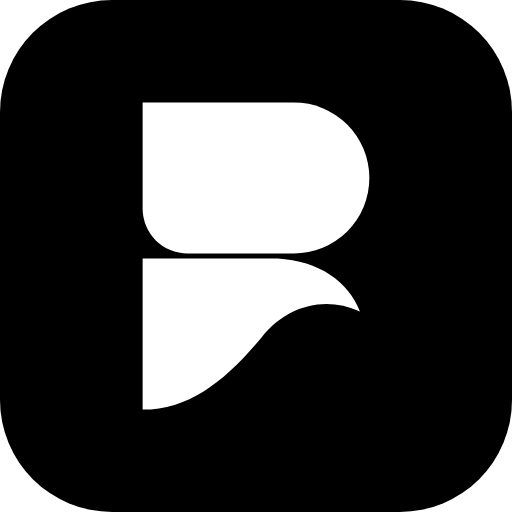
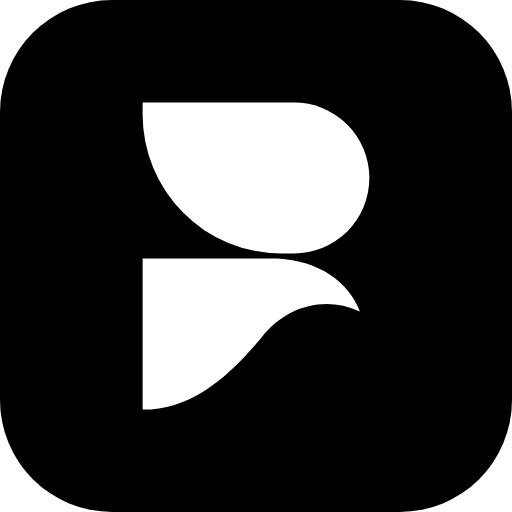
v11.2: the bowl's corner carries a 340 radius
Much rounder, as asked — the bowl reads as one continuous curve from the stem
into the half-round rather than a rectangle with a softened corner. Rendered
at 240, 300, 340 and 370 to choose it, and every asset regenerated from the
same path.

Claude-Session: https://claude.ai/code/session_01J6ArpeeXFtmjNQoSV4Qycv

Changed region(s): [[0.25, 0.25, 0.5312, 0.5]]

diff --git a/index.html b/index.html
@@ -13,7 +13,7 @@
   <link rel="manifest" href="manifest.webmanifest?v=11" />
   <link rel="icon" href="icons/icon.svg" type="image/svg+xml" />
   <link rel="apple-touch-icon" href="icons/icon-192.png" />
-  <link rel="stylesheet" href="css/style.css?v=11.1" />
+  <link rel="stylesheet" href="css/style.css?v=11.2" />
   <script>
     // apply saved appearance before first paint (default: follow the device)
     try {
@@ -53,9 +53,9 @@
   <div id="scanRoot"></div>
   <div id="toastRoot" class="toast-root" aria-live="polite"></div>
 
-  <script src="js/exercises.js?v=11.1"></script>
-  <script src="js/foods.js?v=11.1"></script>
-  <script src="js/app.js?v=11.1"></script>
+  <script src="js/exercises.js?v=11.2"></script>
+  <script src="js/foods.js?v=11.2"></script>
+  <script src="js/app.js?v=11.2"></script>
   <script>
     if ('serviceWorker' in navigator && location.protocol !== 'file:') {
       addEventListener('load', () => {

diff --git a/js/app.js b/js/app.js
@@ -6,7 +6,7 @@
   'use strict';
 
   const STORE_KEY = 'bela-gym-v1';
-  const APP_VERSION = '11.1';
+  const APP_VERSION = '11.2';
 
   /* ---------------- state ---------------- */
 

diff --git a/sw.js b/sw.js
@@ -1,5 +1,5 @@
 /* B.E.L.A Gym — service worker */
-const VERSION = '11.1';
+const VERSION = '11.2';
 const CACHE = 'bela-gym-' + VERSION;
 const ASSETS = [
   '.',
